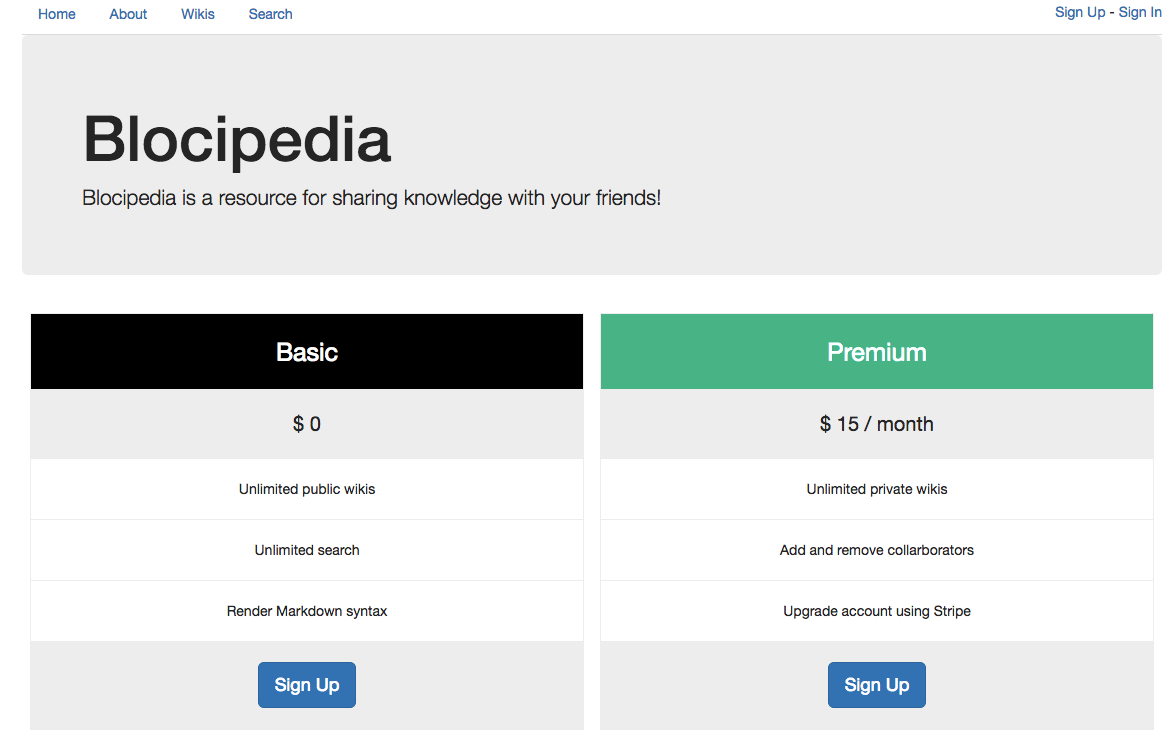
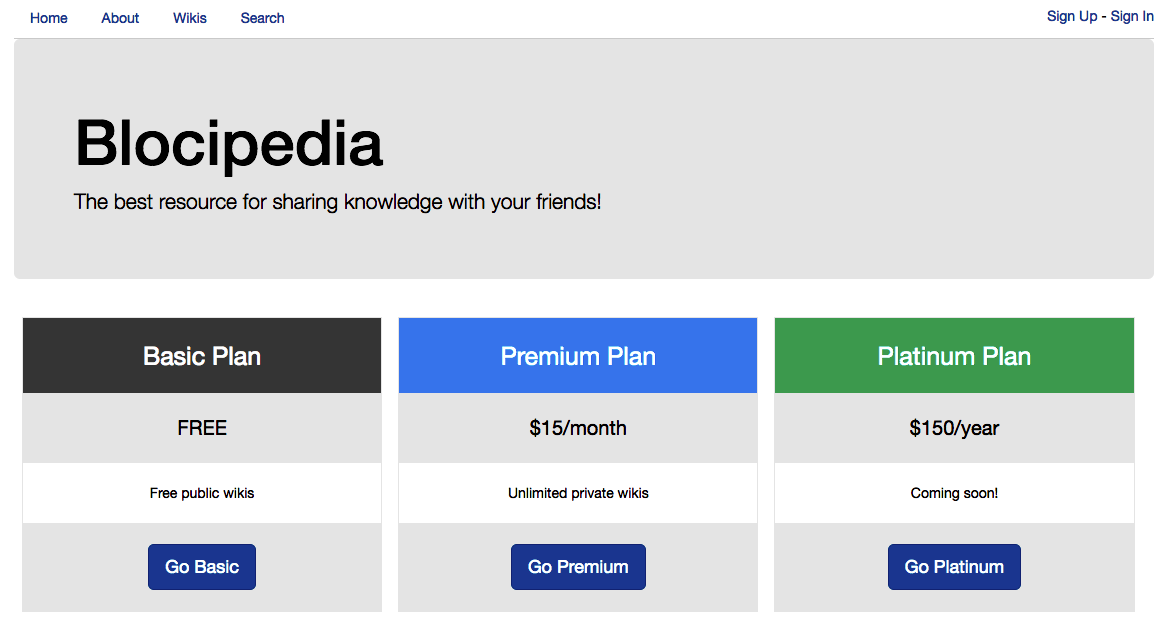
Style

diff --git a/app/assets/stylesheets/welcome.scss b/app/assets/stylesheets/welcome.scss
@@ -5,7 +5,7 @@
 /* Create three columns of equal width */
 .columns {
     float: left;
-    width: 50%;
+    width: 33%;
     padding: 8px;
 }
 
@@ -26,13 +26,19 @@
 
 /* Pricing header */
 .price .header {
-    background-color: #111;
+    background-color: gray;
     color: white;
     font-size: 25px;
 }
 
 /* Pricing header */
 .header-premium {
+    background-color: #0099ff;
+    color: white;
+    font-size: 25px;
+}
+
+.header-platinum {
     background-color: #00b08b;
     color: white;
     font-size: 25px;
